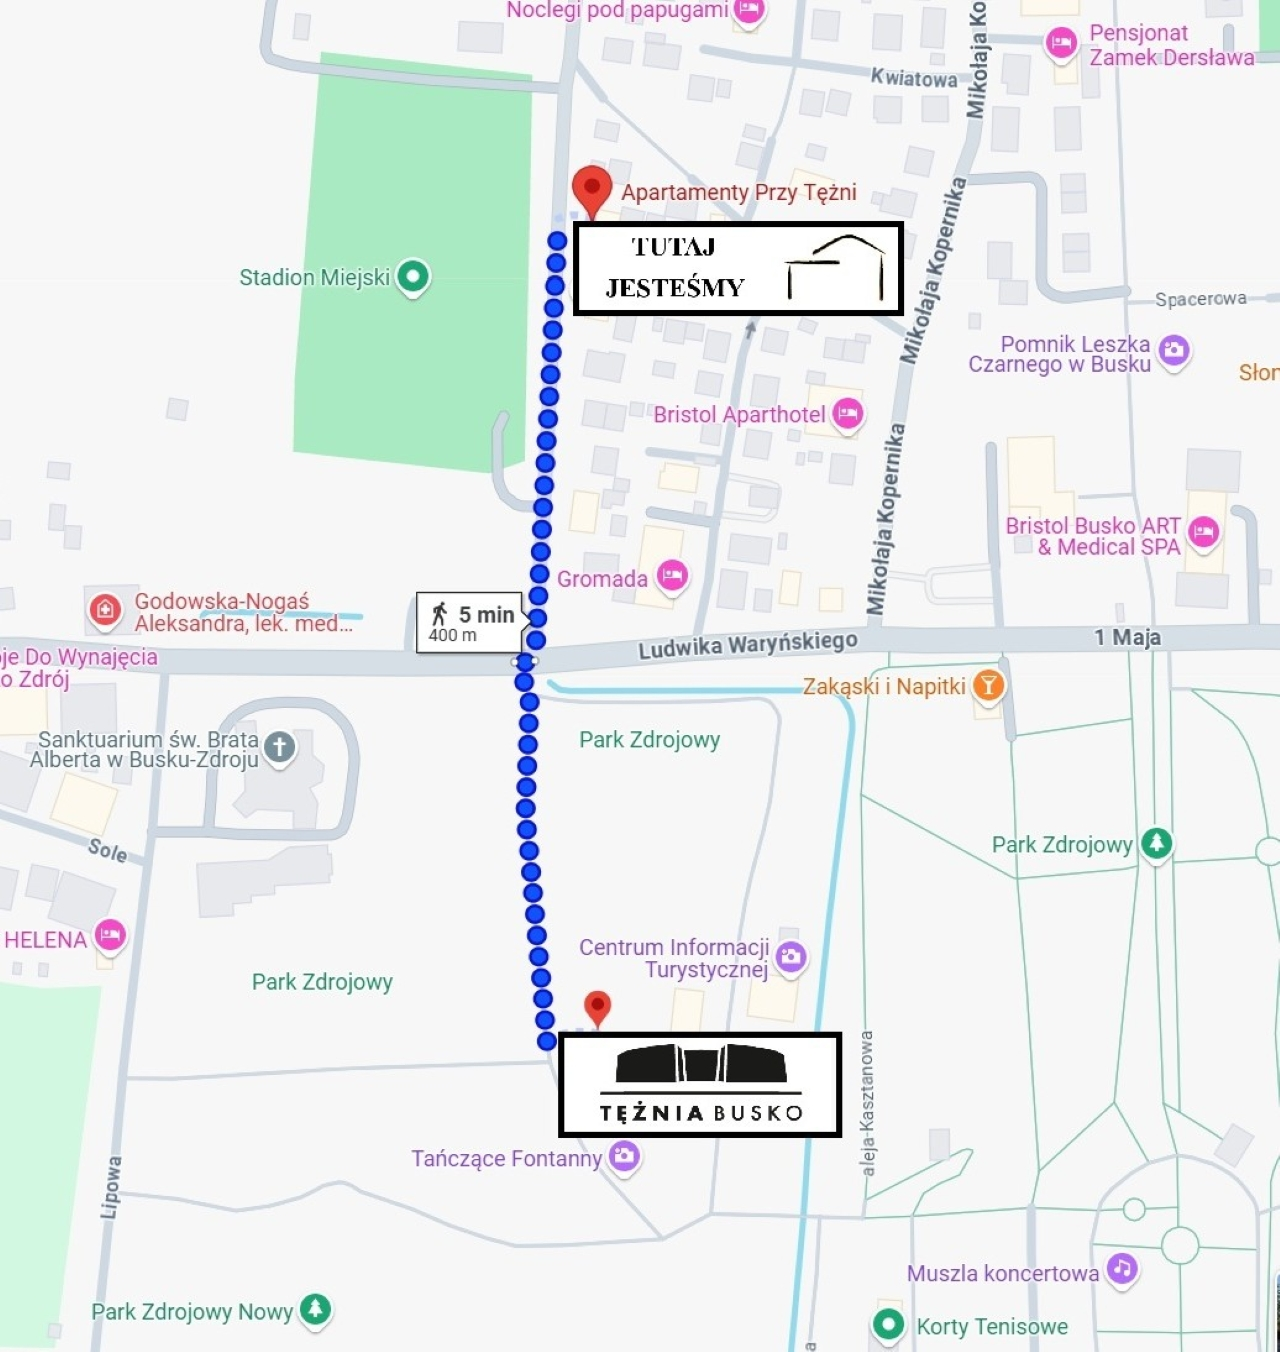
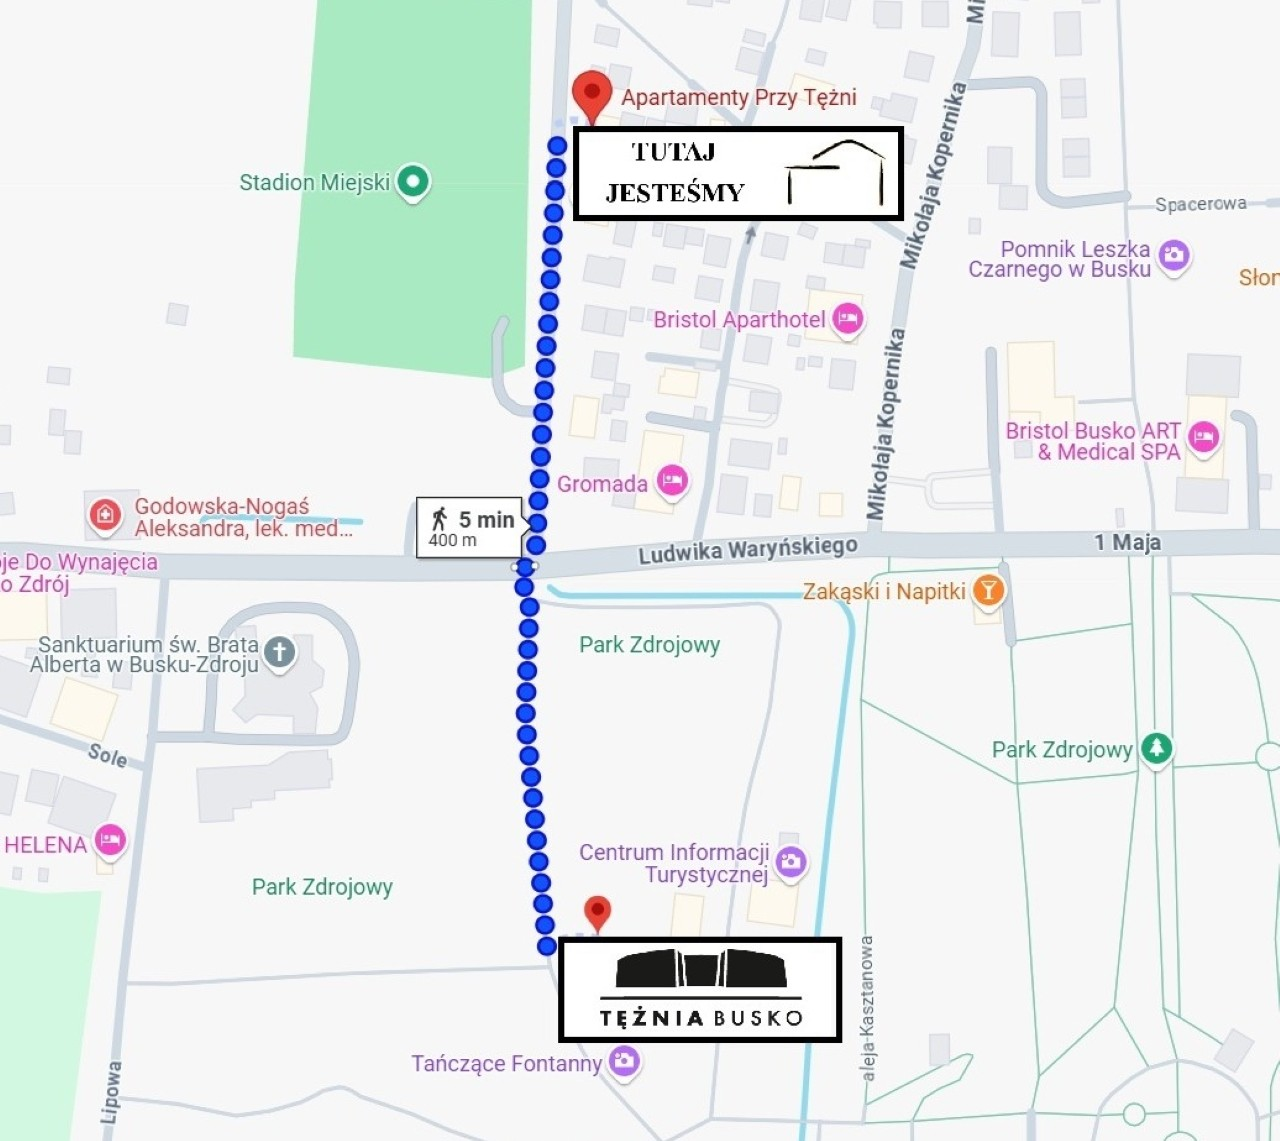
Add privacypolicy, Change photos, Add mainpage location photo, Change mainpage hero title

diff --git a/src/sections/MainPage/Location/Location.tsx b/src/sections/MainPage/Location/Location.tsx
@@ -1,6 +1,7 @@
 import React from "react";
 import styles from "./Location.module.scss";
 import { motion } from "framer-motion";
+import locationImg from "/Photos/Apt - photos/GM.jpg";
 
 const Location: React.FC = () => {
   return (
@@ -15,19 +16,35 @@ const Location: React.FC = () => {
         <h1>Lokalizacja</h1>
         <p>ul.Kusocińskiego 12, 28-100 Busko-Zdrój</p>
       </motion.div>
-      <motion.div
-        initial={{ opacity: 0, scale: 0.9 }}
-        whileInView={{ opacity: 1, scale: 1 }}
-        transition={{ duration: 0.5 }}
-        viewport={{ once: true }}
-        className={styles.mapContainer}
-      >
-        <iframe
-          src="https://www.google.com/maps/embed?pb=!1m18!1m12!1m3!1d3161.5514777092467!2d20.713703877130186!3d50.46300607159438!2m3!1f0!2f0!3f0!3m2!1i1024!2i768!4f13.1!3m3!1m2!1s0x4717c318b603749b%3A0x7c2c791c19b52654!2sApartamenty%20Przy%20T%C4%99%C5%BCni!5e1!3m2!1spl!2spl!4v1760364609443!5m2!1spl!2spl"
-          loading="lazy"
-          referrerPolicy="no-referrer-when-downgrade"
-        ></iframe>
-      </motion.div>
+      <div className={styles.mapsContainerDiv}>
+        <motion.div
+          initial={{ opacity: 0, scale: 0.9 }}
+          whileInView={{ opacity: 1, scale: 1 }}
+          transition={{ duration: 0.5 }}
+          viewport={{ once: true }}
+          className={styles.mapContainer}
+        >
+          <iframe
+            className={styles.map}
+            src="https://www.google.com/maps/embed?pb=!1m18!1m12!1m3!1d3161.5514777092467!2d20.713703877130186!3d50.46300607159438!2m3!1f0!2f0!3f0!3m2!1i1024!2i768!4f13.1!3m3!1m2!1s0x4717c318b603749b%3A0x7c2c791c19b52654!2sApartamenty%20Przy%20T%C4%99%C5%BCni!5e0!3m2!1spl!2spl!4v1760364609443!5m2!1spl!2spl"
+            loading="lazy"
+            referrerPolicy="no-referrer-when-downgrade"
+          ></iframe>
+        </motion.div>
+        <motion.div
+          initial={{ opacity: 0, scale: 0.9 }}
+          whileInView={{ opacity: 1, scale: 1 }}
+          transition={{ duration: 0.5 }}
+          viewport={{ once: true }}
+          className={styles.mapContainer}
+        >
+          <img
+            src={locationImg}
+            alt="Lokalizacja Apartamentów"
+            className={styles.map}
+          />
+        </motion.div>
+      </div>
     </section>
   );
 };

diff --git a/src/pages/PrivacyPolicy/PrivacyPolicy.tsx b/src/pages/PrivacyPolicy/PrivacyPolicy.tsx
@@ -1,0 +1,29 @@
+import React from "react";
+
+const PrivacyPolicy: React.FC = () => {
+  return (
+    <p style={{ paddingTop: "9rem" }}>
+      Polityka prywatności 1. Informacje ogólne Administratorem danych osobowych
+      jest właściciel strony internetowej. Dane osobowe przetwarzane są zgodnie
+      z obowiązującymi przepisami prawa, w szczególności RODO. 2. Zakres
+      zbieranych danych Za pośrednictwem formularza kontaktowego zbierane mogą
+      być następujące dane: - imię i nazwisko, - adres e-mail, - inne dane
+      podane dobrowolnie w treści wiadomości. 3. Cel przetwarzania danych Dane
+      osobowe przetwarzane są wyłącznie w celu: - udzielenia odpowiedzi na
+      przesłane zapytanie, - prowadzenia korespondencji związanej z zapytaniem.
+      4. Podstawa prawna przetwarzania Podstawą prawną przetwarzania danych jest
+      prawnie uzasadniony interes administratora (art. 6 ust. 1 lit. f RODO). 5.
+      Okres przechowywania danych Dane osobowe przechowywane są przez czas
+      niezbędny do udzielenia odpowiedzi oraz prowadzenia dalszej
+      korespondencji, a następnie usuwane. 6. Odbiorcy danych Dane nie są
+      przekazywane podmiotom trzecim, z wyjątkiem podmiotów obsługujących stronę
+      internetową (np. hosting, poczta e-mail). 7. Prawa użytkownika Osobie,
+      której dane dotyczą, przysługuje prawo do: - dostępu do danych, - ich
+      sprostowania, - usunięcia, - ograniczenia przetwarzania, - wniesienia
+      sprzeciwu. 8. Kontakt W sprawach związanych z danymi osobowymi można
+      skontaktować się bezpośrednio z administratorem danych.
+    </p>
+  );
+};
+
+export default PrivacyPolicy;

diff --git a/src/sections/Contact/Form/Form.tsx b/src/sections/Contact/Form/Form.tsx
@@ -1,6 +1,7 @@
 import React from "react";
 import style from "./Form.module.scss";
 import { motion } from "framer-motion";
+import { NavLink } from "react-router-dom";
 
 const Form: React.FC = () => {
   return (
@@ -87,11 +88,25 @@ const Form: React.FC = () => {
           rows={6}
           required
         />
+        <motion.span
+          initial={{ opacity: 0, x: 100 }}
+          animate={{ opacity: 1, x: 0 }}
+          transition={{ duration: 0.5, delay: 0.7 }}
+          className={style.privacy}
+        >
+          Administratorem danych osobowych jest właściciel strony. Dane
+          przetwarzane są wyłącznie w celu udzielenia odpowiedzi na zapytanie.
+          Szczegóły znajdują się w
+          <span className={style.privacyLink}>
+            <NavLink to="/PrivacyPolicy"> polityce prywatności</NavLink>
+          </span>
+          .
+        </motion.span>
 
         <motion.button
           initial={{ opacity: 0, x: 100 }}
           animate={{ opacity: 1, x: 0 }}
-          transition={{ duration: 0.5, delay: 0.7 }}
+          transition={{ duration: 0.5, delay: 0.8 }}
           type="submit"
         >
           Wyślij wiadomość

diff --git a/src/components/Navbar/Navbar.module.scss b/src/components/Navbar/Navbar.module.scss
@@ -9,28 +9,28 @@
 }
 
 .navbar {
-  height: 100px;
+  height: 130px;
   width: 100%;
   display: flex;
   position: fixed;
   z-index: 2;
   justify-content: center;
-  background-color: rgb(255, 255, 255);
+  background-color: rgb(218, 218, 229);
   align-items: center;
   padding: 1rem;
   border-bottom: 1px solid rgb(218, 218, 229);
 
   .logo {
     margin-left: 3rem;
-    height: 6rem;
-    width: 20%;
+    height: 8rem;
+    width: 25%;
     display: flex;
     justify-content: center;
     align-items: center;
     outline: none;
 
     img {
-      height: 85px;
+      height: 90%;
     }
   }
 
@@ -41,7 +41,8 @@
     justify-content: space-evenly;
 
     a {
-      padding: 1rem;
+      padding: 1.5rem;
+      font-size: 1.2rem;
       border-radius: 0.8rem;
       outline: none;
       text-transform: uppercase;

diff --git a/src/App.tsx b/src/App.tsx
@@ -14,6 +14,7 @@ import Footer from "./components/Footer/Footer";
 import ApartmentDetail from "./pages/ApartmentDetail/ApartmentDetail";
 import ApartmentData from "./data/apartments.json";
 import ScrollToTop from "./components/ScrollToTop";
+import PrivacyPolicy from "./pages/PrivacyPolicy/PrivacyPolicy";
 
 function AnimatedRoutes() {
   const location = useLocation();
@@ -31,6 +32,7 @@ function AnimatedRoutes() {
           <Route path="/" element={<MainPage />} />
           <Route path="/Apartments" element={<Apartments />} />
           <Route path="/Contact" element={<Contact />} />
+          <Route path="/PrivacyPolicy" element={<PrivacyPolicy />} />
 
           {ApartmentData.map((apt, i) => (
             <Route

diff --git a/src/sections/MainPage/Location/Location.module.scss b/src/sections/MainPage/Location/Location.module.scss
@@ -22,20 +22,26 @@
     }
   }
 
-  .mapContainer {
-    width: 90%;
-    height: 100%;
+  .mapsContainerDiv {
     display: flex;
-    justify-content: center;
-    align-items: center;
-    background-color: rgb(218, 218, 229);
-    border-radius: 8px;
-    padding: 2rem;
+    width: 90%;
+    justify-content: space-evenly;
+    height: 80%;
 
-    iframe {
-      width: 100%;
+    .mapContainer {
+      width: 45%;
       height: 100%;
+      display: flex;
+      justify-content: center;
+      align-items: center;
+      background-color: rgb(218, 218, 229);
       border-radius: 8px;
+
+      .map {
+        width: 95%;
+        height: 95%;
+        border-radius: 8px;
+      }
     }
   }
 }

diff --git a/src/sections/MainPage/Hero/Hero.module.scss b/src/sections/MainPage/Hero/Hero.module.scss
@@ -7,21 +7,23 @@
   padding: 4rem;
   display: flex;
   flex-direction: column;
-  justify-content: flex-end;
-  background-color: rgba(0, 0, 0, 0.3);
+  background-color: rgba(0, 0, 0, 0.1);
   background-blend-mode: darken;
 
   h1 {
     font-weight: 400;
     font-size: 3rem;
+
+    &:first-of-type {
+      padding-top: 11rem;
+    }
   }
 }
 
-
 //Big phones and tablets
 
-@media (max-width: 768px) {}
-
+@media (max-width: 768px) {
+}
 
 //Phones
 

diff --git a/src/sections/MainPage/Benefits/Benefits.tsx b/src/sections/MainPage/Benefits/Benefits.tsx
@@ -39,7 +39,7 @@ const Benefits: React.FC = () => {
             classs={styles.detailsCard}
             icon={waterDrop}
             title="Przy tężni solankowej"
-            description="250m od leczniczej tężni - oddychaj zdrowiem"
+            description="400m od leczniczej tężni - oddychaj zdrowiem"
             alt="Ikona Kropli Wody"
           />
         </motion.li>

diff --git a/src/sections/Contact/Informations/Informations.tsx b/src/sections/Contact/Informations/Informations.tsx
@@ -37,7 +37,7 @@ const Informations: React.FC = () => {
       >
         <img className={style.contactIcon} src={mailIcon} />
         <div>
-          <p>beata.sciubisz1977@gmail.com</p>
+          <p>ApartamentyPrzyTezni@gmail.com</p>
           <p className={style.moreInfo}>Odpowiadamy w ciągu 24h</p>
         </div>
       </motion.div>

diff --git a/src/sections/ApartmentDetail/Location/Location.tsx b/src/sections/ApartmentDetail/Location/Location.tsx
@@ -37,7 +37,7 @@ const Location: React.FC = () => {
             <ul>
               <li>
                 <img src={locationIcon} />
-                <p>50m do tężni solankowej</p>
+                <p>400m do tężni solankowej</p>
               </li>
               <li>
                 <img src={locationIcon} />

diff --git a/src/components/Footer/Footer.tsx b/src/components/Footer/Footer.tsx
@@ -27,7 +27,7 @@ const Footer: React.FC = () => {
             <p>Telefon: +48 508 500 886</p>
           </li>
           <li>
-            <p>Email: beata.sciubisz1977@gmail.com</p>
+            <p>Email: ApartamentyPrzyTezni@gmail.com</p>
           </li>
           <li>
             <p>Godziny: 8:00 - 20:00</p>

diff --git a/src/sections/Apartments/ApartmentsTitle/ApartmentsTitle.module.scss b/src/sections/Apartments/ApartmentsTitle/ApartmentsTitle.module.scss
@@ -6,9 +6,8 @@
 
   h1 {
     font-weight: 400;
-    font-size: 2.2rem;
-    margin: 3rem 0 1rem 0;
-    margin-top: 9rem;
+    font-size: 2.5rem;
+    margin: 10rem 0 1rem 0;
     text-align: center;
   }
 
@@ -23,7 +22,6 @@
 
 @media (max-width: 768px) {
   .apartmentsTitle {
-
     p {
       width: 80%;
     }
